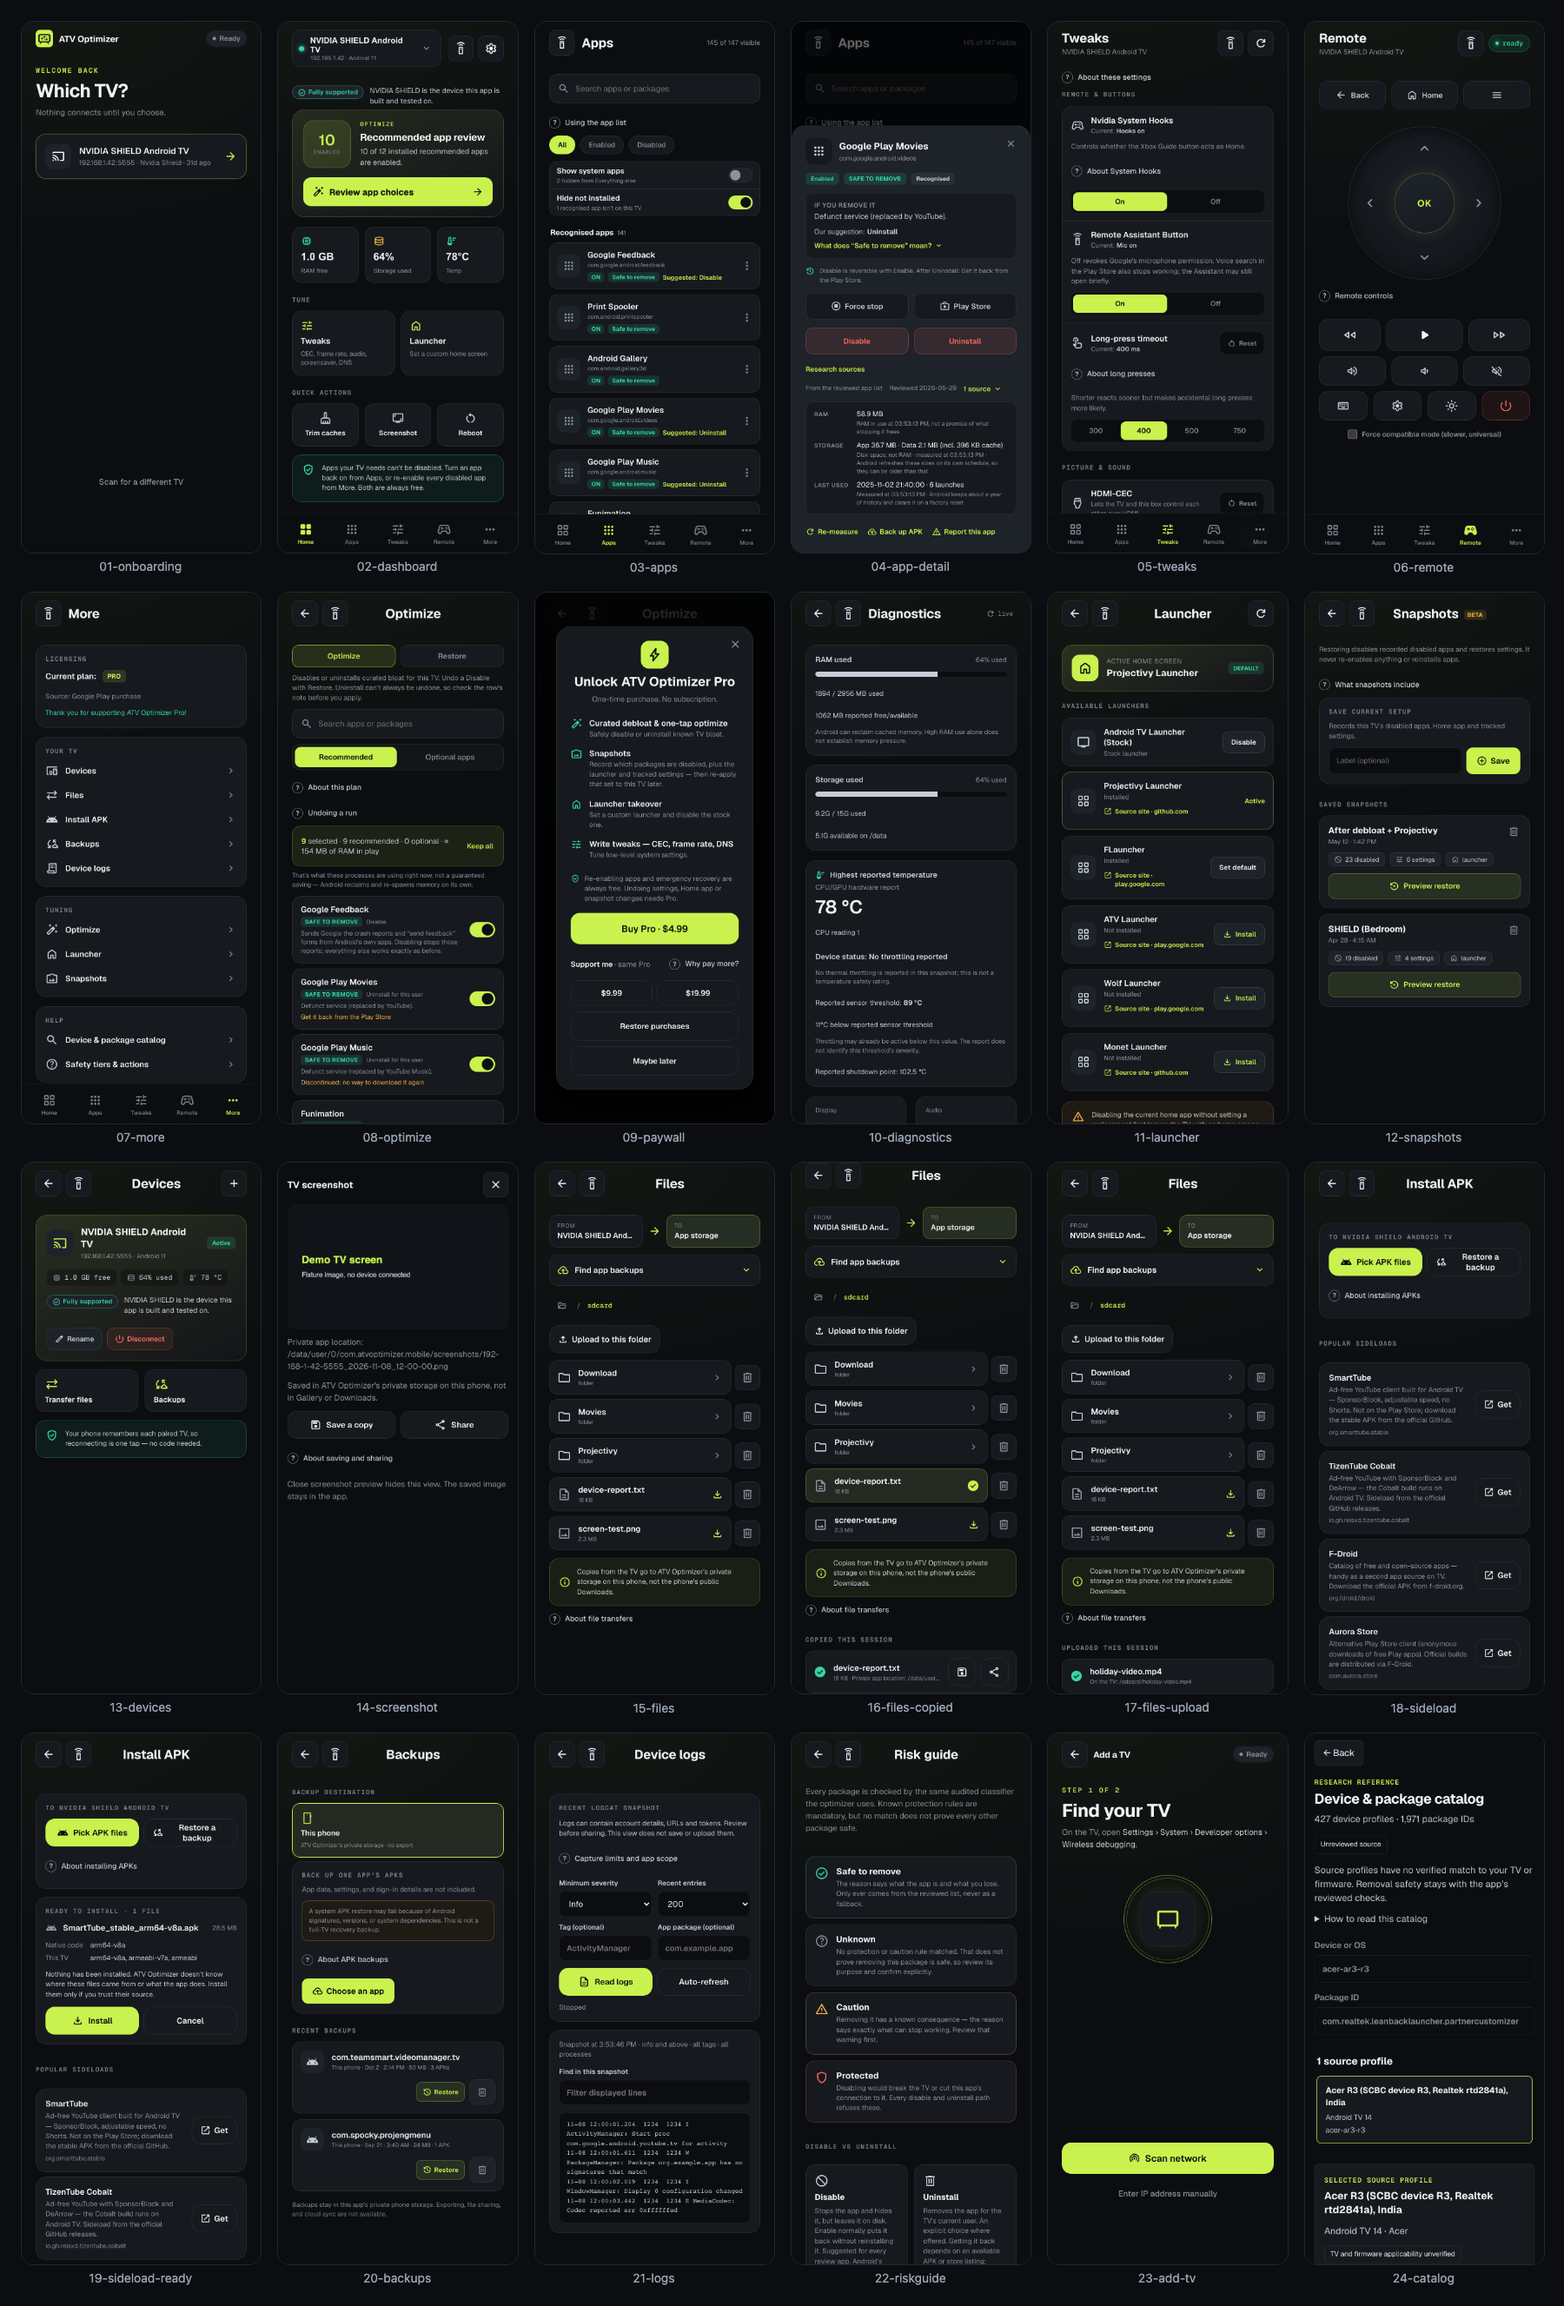
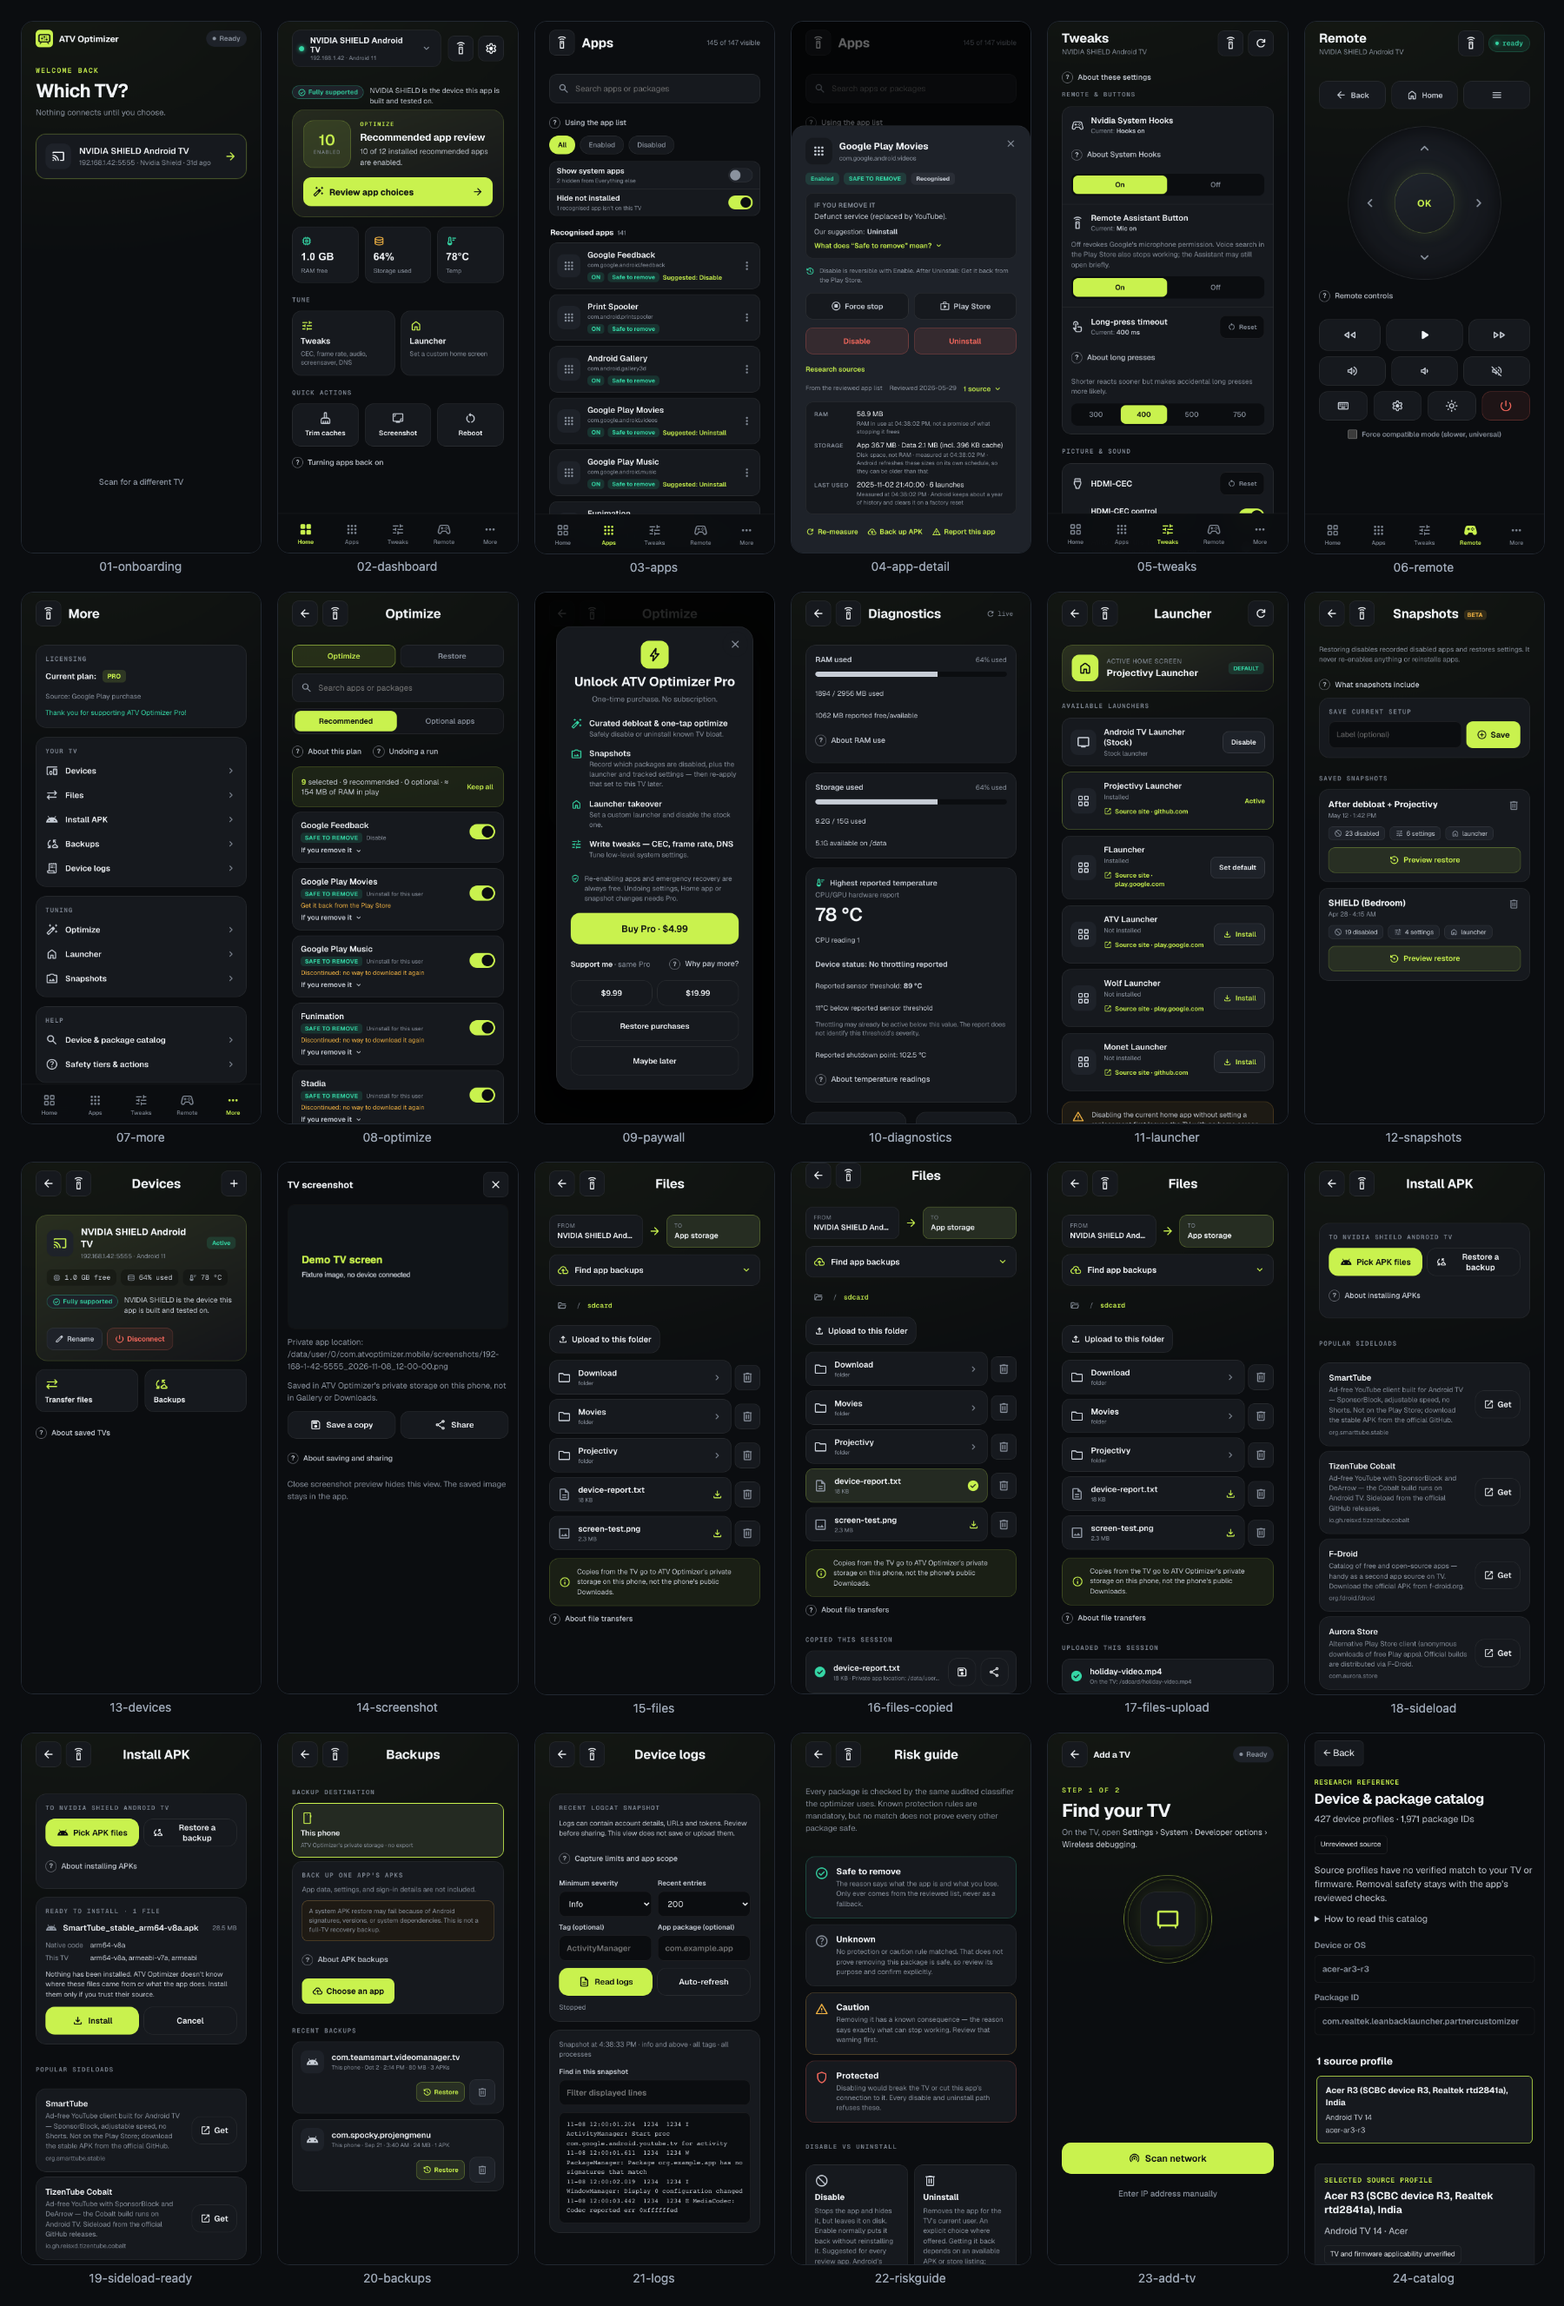
Tighten the Optimize row toggle and regenerate the mobile gallery

diff --git a/v2/mobile/src/screens/Optimize.svelte b/v2/mobile/src/screens/Optimize.svelte
@@ -1380,7 +1380,7 @@
     contain-intrinsic-size: auto 110px;
     display: flex;
     flex-direction: column;
-    padding: 13px 14px 4px;
+    padding: 13px 14px 0;
     border-radius: 15px;
     background: var(--surface);
     border: 1px solid var(--line);
@@ -1392,13 +1392,15 @@
     gap: 12px;
   }
   .row-main:last-child {
-    padding-bottom: 9px;
+    padding-bottom: 13px;
   }
+  /* The toggle keeps its 44px target; the negative margins only pull its label
+     up to the status line and down to the card's edge. */
   .optimize-item > :global(.unfurl-toggle) {
-    margin-top: -4px;
+    margin: -8px 0 -2px;
   }
   .optimize-item > :global(.unfurl-panel) {
-    margin-bottom: 10px;
+    margin: 4px 0 13px;
   }
   .optimize-item.blocked-row {
     border-color: color-mix(in srgb, var(--danger) 30%, transparent);
